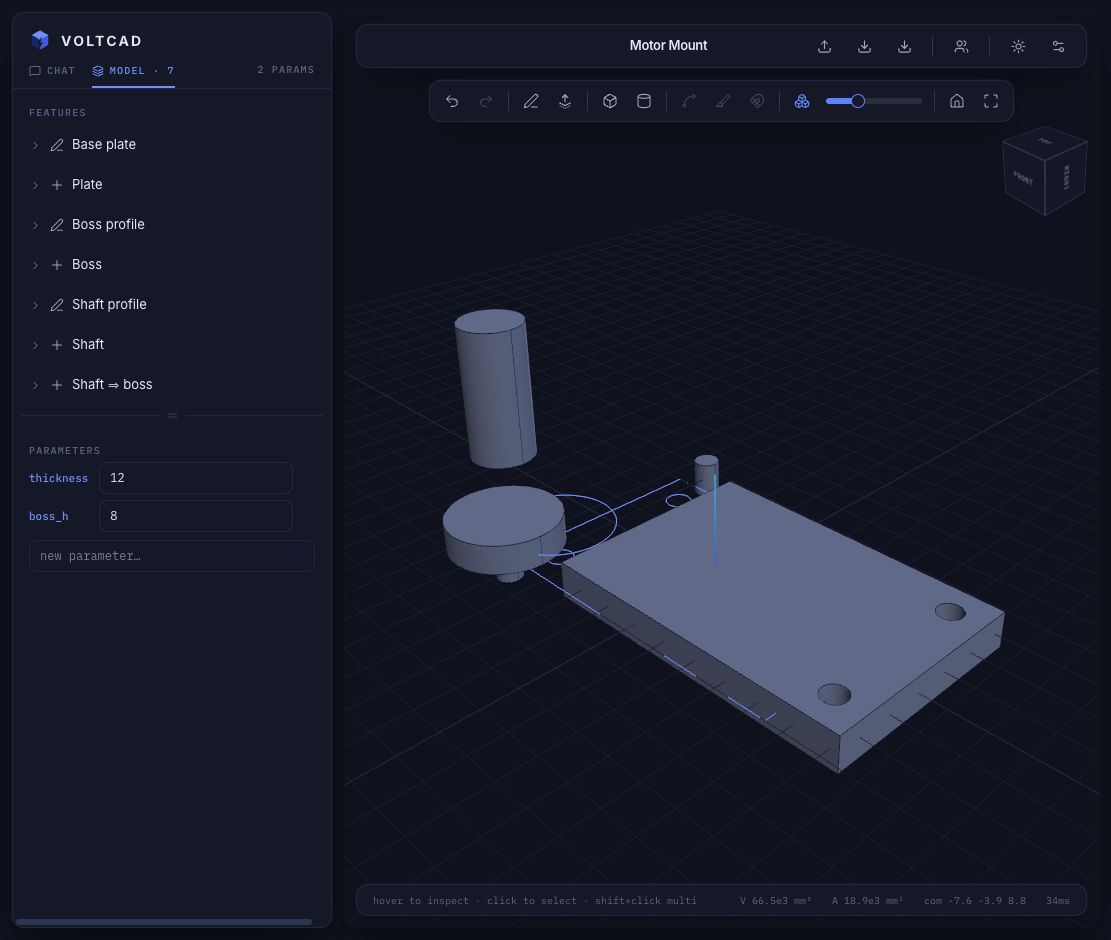
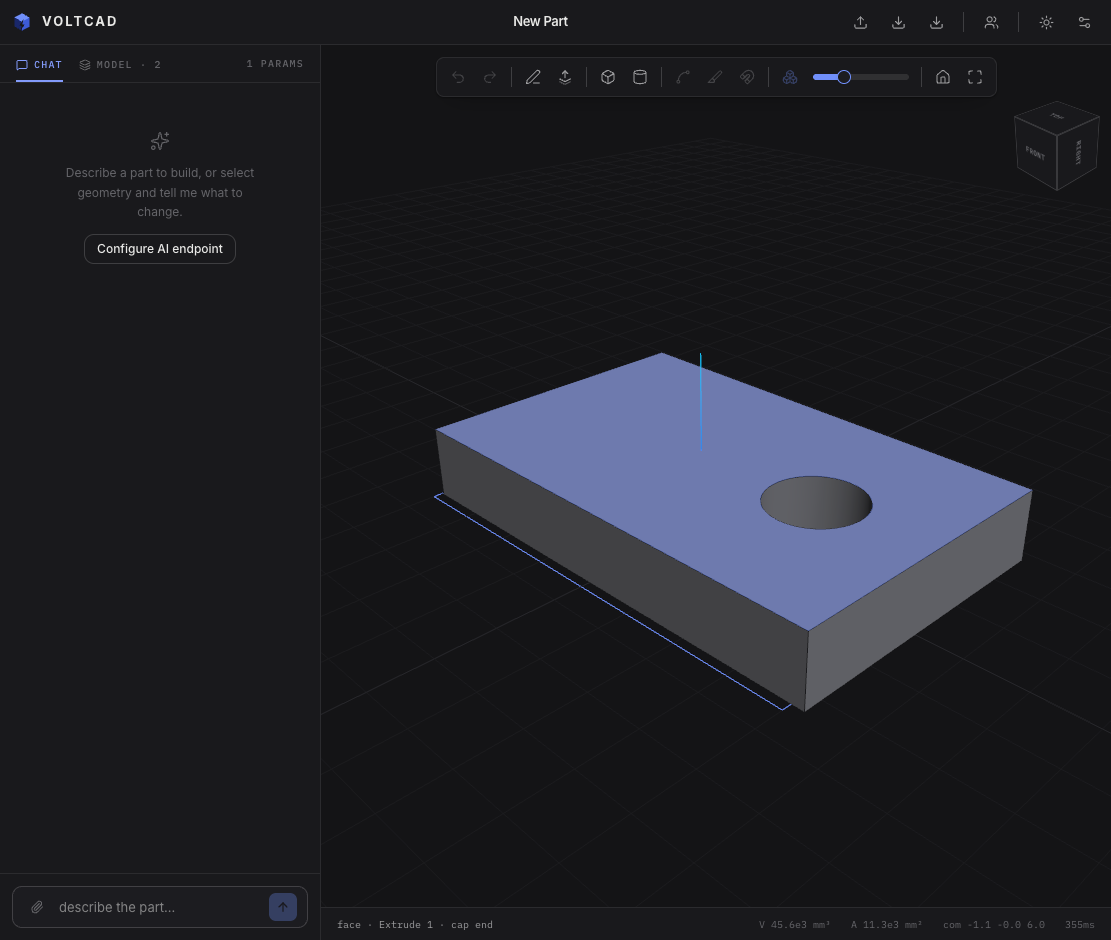
updated ui

diff --git a/apps/web/src/styles.css b/apps/web/src/styles.css
@@ -11,62 +11,63 @@
 @custom-variant data-disabled (&[data-disabled]);
 
 /* ---- design tokens ------------------------------------------------------ */
+/* "Precision workbench": flat opaque surfaces, hairline dividers, warm
+   neutrals — indigo is reserved exclusively for interactive/brand moments. */
 
 :root {
-  /* cool engineering-blue light theme */
-  --bg: #edeff4;
-  --surface: rgb(255 255 255 / 0.72);
+  /* warm paper light theme */
+  --bg: #f1f0ec;
+  --surface: #faf9f6;
   --surface-solid: #ffffff;
-  --surface-raised: rgb(255 255 255 / 0.9);
-  --border: rgb(24 32 63 / 0.08);
-  --border-strong: rgb(24 32 63 / 0.16);
-  --text: #171c2b;
-  --text-secondary: #454d63;
-  --text-muted: #8a91a5;
-  --accent: #1d2c9c;
+  --surface-raised: #f0efea;
+  --border: rgb(28 27 22 / 0.1);
+  --border-strong: rgb(28 27 22 / 0.19);
+  --text: #1d1c19;
+  --text-secondary: #4d4c47;
+  --text-muted: #8d8b80;
+  --accent: #2440d0;
   --accent-contrast: #ffffff;
   --label: #2b50e8;
   --status: #e8590c;
   --ok: #157a4e;
-  --ok-bg: #d9f2e2;
-  --err: #d64545;
+  --ok-bg: #dcf0e3;
+  --err: #cf4437;
   --select: #e8590c;
   --hover-hl: #2b50e8;
-  --hover-soft: rgb(43 80 232 / 0.08);
-  --accent-soft: #e9edfb;
+  --hover-soft: rgb(36 64 208 / 0.08);
+  --accent-soft: #e8ebfa;
   --shadow-panel:
-    0 0 0 0.5px rgb(24 32 63 / 0.04),
-    0 1px 2px rgb(24 32 63 / 0.05),
-    0 16px 40px -12px rgb(24 32 63 / 0.18);
+    0 1px 2px rgb(28 27 22 / 0.06),
+    0 6px 20px -12px rgb(28 27 22 / 0.16);
   --font-sans: "Inter Variable", ui-sans-serif, system-ui, sans-serif;
   --font-mono: "IBM Plex Mono", ui-monospace, "SF Mono", monospace;
 }
 
 .dark {
-  --bg: #0d1020;
-  --surface: rgb(23 28 48 / 0.72);
-  --surface-solid: #141830;
-  --surface-raised: rgb(30 36 60 / 0.9);
-  --border: rgb(160 175 255 / 0.1);
-  --border-strong: rgb(160 175 255 / 0.2);
-  --text: #e7eaf6;
-  --text-secondary: #a8b0cd;
-  --text-muted: #666f92;
-  --accent: #6b8afd;
-  --accent-contrast: #0c1024;
-  --label: #7d97ff;
+  /* warm graphite dark theme — neutral, not blue-tinted */
+  --bg: #131316;
+  --surface: #1a1a1e;
+  --surface-solid: #1e1e23;
+  --surface-raised: #242429;
+  --border: rgb(255 255 255 / 0.08);
+  --border-strong: rgb(255 255 255 / 0.16);
+  --text: #ebebe9;
+  --text-secondary: #a6a6a8;
+  --text-muted: #6f6f74;
+  --accent: #7c97ff;
+  --accent-contrast: #10101a;
+  --label: #8fa3ff;
   --status: #ff7a2f;
   --ok: #34c98e;
   --ok-bg: rgb(52 201 142 / 0.14);
   --err: #ff6b6b;
   --select: #ffa94d;
-  --hover-hl: #7d97ff;
-  --hover-soft: rgb(125 151 255 / 0.12);
-  --accent-soft: #242c50;
+  --hover-hl: #7c97ff;
+  --hover-soft: rgb(124 151 255 / 0.12);
+  --accent-soft: rgb(124 151 255 / 0.15);
   --shadow-panel:
-    0 0 0 0.5px rgb(160 175 255 / 0.08),
-    0 1px 2px rgb(0 0 0 / 0.5),
-    0 16px 40px -12px rgb(0 0 0 / 0.65);
+    0 1px 2px rgb(0 0 0 / 0.4),
+    0 8px 24px -14px rgb(0 0 0 / 0.55);
 }
 
 /* ---- shadcn/radix component tokens → mapped onto VoltCAD design vars ----- */
@@ -89,9 +90,9 @@
   --color-border: var(--border);
   --color-input: var(--border-strong);
   --color-ring: var(--accent);
-  --radius-lg: 12px;
-  --radius-md: 10px;
-  --radius-sm: 8px;
+  --radius-lg: 10px;
+  --radius-md: 8px;
+  --radius-sm: 6px;
 }
 
 /* ---- base --------------------------------------------------------------- */
@@ -129,13 +130,19 @@ body {
 
 /* ---- surfaces ------------------------------------------------------------ */
 
+/* Floating chrome (toolbar, popovers, dialogs): flat, opaque, hairline. */
 .glass-panel {
-  border-radius: 12px;
+  border-radius: 8px;
   border: 1px solid var(--border);
   background: var(--surface);
-  backdrop-filter: blur(20px) saturate(1.4);
-  -webkit-backdrop-filter: blur(20px) saturate(1.4);
   box-shadow: var(--shadow-panel);
+  color: var(--text);
+}
+
+/* Docked chrome (header, sidebar, status strip): no radius, no shadow —
+   structure comes from hairline dividers, added per-side via utilities. */
+.dock-panel {
+  background: var(--surface);
   color: var(--text);
 }
 
@@ -175,9 +182,9 @@ body {
   display: inline-flex;
   align-items: center;
   justify-content: center;
-  width: 32px;
-  height: 32px;
-  border-radius: 8px;
+  width: 30px;
+  height: 30px;
+  border-radius: 6px;
   color: var(--text-secondary);
   transition: background 120ms, color 120ms;
 }
@@ -213,9 +220,9 @@ body {
   left: 50%;
   transform: translateX(-50%) translateY(-2px);
   padding: 4px 8px;
-  border-radius: 6px;
-  background: var(--accent);
-  color: var(--accent-contrast);
+  border-radius: 5px;
+  background: var(--text);
+  color: var(--bg);
   font-family: var(--font-mono);
   font-size: 10px;
   font-weight: 500;
@@ -238,6 +245,10 @@ body {
 [data-tip][data-tip-side="bottom-left"]:hover::after {
   transform: translateY(0);
 }
+[data-tip][data-tip-side="top"]::after {
+  top: auto;
+  bottom: calc(100% + 8px);
+}
 
 /* ---- fields --------------------------------------------------------------- */
 
@@ -254,7 +265,7 @@ body {
 
 .field-input {
   width: 100%;
-  border-radius: 8px;
+  border-radius: 6px;
   border: 1px solid var(--border);
   background: var(--surface-solid);
   padding: 6px 10px;

diff --git a/apps/web/src/routes/index.tsx b/apps/web/src/routes/index.tsx
@@ -59,36 +59,49 @@ function Editor() {
   }, [])
 
   return (
-    <div className="flex h-dvh w-dvw gap-3 overflow-hidden p-3" style={{ background: 'var(--bg)' }}>
-      <Sidebar onOpenSettings={() => setSettingsOpen(true)} />
+    <div className="flex h-dvh w-dvw flex-col overflow-hidden" style={{ background: 'var(--bg)' }}>
+      {/* docked header rail */}
+      <div className="dock-panel z-20 border-b" style={{ borderColor: 'var(--border)' }}>
+        <TopBar onOpenSettings={() => setSettingsOpen(true)} />
+      </div>
 
-      <main className="relative min-w-0 flex-1 overflow-hidden rounded-xl" style={{ boxShadow: 'var(--shadow-panel)' }}>
-        <Viewport />
-        <ViewportOverlays />
-
-        {/* floating chrome over the viewport */}
-        <div className="pointer-events-none absolute inset-0 flex flex-col p-3">
-          <div className="pointer-events-auto">
-            <TopBar onOpenSettings={() => setSettingsOpen(true)} />
-          </div>
-          <div className="mt-3 flex justify-center">
-            <div className="pointer-events-auto flex flex-col items-center">
-              <Toolbar />
-              <DimensionInput />
-              <ConstraintBar />
-            </div>
-          </div>
-          <div className="mt-1 flex justify-end">
-            <ViewCube />
-          </div>
-          <div className="flex-1" />
-          <div className="pointer-events-auto">
-            <StatusBar />
-          </div>
+      <div className="flex min-h-0 flex-1">
+        {/* docked sidebar */}
+        <div className="dock-panel z-10 border-r" style={{ borderColor: 'var(--border)' }}>
+          <Sidebar onOpenSettings={() => setSettingsOpen(true)} />
         </div>
 
-        <SettingsDialog open={settingsOpen} onClose={() => setSettingsOpen(false)} />
-      </main>
+        {/* full-bleed viewport */}
+        <main className="relative min-w-0 flex-1 overflow-hidden">
+          <Viewport />
+          <ViewportOverlays />
+
+          {/* floating instruments over the viewport */}
+          <div className="pointer-events-none absolute inset-0 flex flex-col p-3">
+            <div className="flex justify-center">
+              <div className="pointer-events-auto flex flex-col items-center">
+                <Toolbar />
+                <DimensionInput />
+                <ConstraintBar />
+              </div>
+            </div>
+            <div className="mt-1 flex justify-end">
+              <ViewCube />
+            </div>
+            <div className="flex-1" />
+          </div>
+
+          {/* docked status strip */}
+          <div
+            className="dock-panel absolute inset-x-0 bottom-0 border-t"
+            style={{ borderColor: 'var(--border)' }}
+          >
+            <StatusBar />
+          </div>
+
+          <SettingsDialog open={settingsOpen} onClose={() => setSettingsOpen(false)} />
+        </main>
+      </div>
     </div>
   )
 }

diff --git a/apps/web/src/components/StatusBar.tsx b/apps/web/src/components/StatusBar.tsx
@@ -14,7 +14,7 @@ export function StatusBar() {
     selection.length > 0 && selection.every((x) => x.kind === "face");
 
   return (
-    <div className="glass-panel flex h-8 items-center gap-5 px-4 font-mono text-[10px]" style={{ color: "var(--text-muted)" }}>
+    <div className="flex h-8 items-center gap-5 px-4 font-mono text-[10px]" style={{ color: "var(--text-muted)" }}>
       <span className="min-w-0 flex-1 truncate">
         {kernelError ? (
           <span style={{ color: "var(--err)" }}>{kernelError}</span>
@@ -32,14 +32,14 @@ export function StatusBar() {
       </span>
       {massProps && (
         <>
-          <span data-tip="Volume">V {fmt(massProps.volume)}mm³</span>
-          <span data-tip="Surface area">A {fmt(massProps.surfaceArea)}mm²</span>
-          <span data-tip="Center of mass">
+          <span data-tip="Volume" data-tip-side="top">V {fmt(massProps.volume)}mm³</span>
+          <span data-tip="Surface area" data-tip-side="top">A {fmt(massProps.surfaceArea)}mm²</span>
+          <span data-tip="Center of mass" data-tip-side="top">
             com {massProps.centerOfMass.map((v) => v.toFixed(1)).join(" ")}
           </span>
         </>
       )}
-      <span data-tip="Regeneration time">{regenMs.toFixed(0)}ms</span>
+      <span data-tip="Regeneration time" data-tip-side="top">{regenMs.toFixed(0)}ms</span>
     </div>
   );
 }

diff --git a/apps/web/src/components/Sidebar.tsx b/apps/web/src/components/Sidebar.tsx
@@ -1,10 +1,9 @@
 import { MessageSquare, Layers } from "lucide-react";
 import { ChatPanel } from "./ChatPanel.tsx";
 import { ModelPanel } from "./ModelPanel.tsx";
-import { Logo } from "./Logo.tsx";
 import { useEditorStore } from "../state/document-store.ts";
 
-/** Left sidebar: floating glass panel with brand header + CHAT / MODEL tabs. */
+/** Left sidebar: docked panel with CHAT / MODEL tabs (brand lives in the header rail). */
 export function Sidebar(props: { onOpenSettings: () => void }) {
   const tab = useEditorStore((s) => s.sidebarTab);
   const setTab = useEditorStore((s) => s.setSidebarTab);
@@ -15,13 +14,8 @@ export function Sidebar(props: { onOpenSettings: () => void }) {
   );
 
   return (
-    <aside className="glass-panel z-10 flex w-80 shrink-0 flex-col overflow-hidden">
-      <div className="flex items-center gap-2.5 px-4 pt-4 pb-2">
-        <Logo size={22} />
-        <span className="text-[14px] font-bold tracking-[0.16em]">VOLTCAD</span>
-      </div>
-
-      <div className="flex items-center gap-4 border-b px-4" style={{ borderColor: "var(--border)" }}>
+    <aside className="flex h-full w-80 shrink-0 flex-col overflow-hidden">
+      <div className="flex items-center gap-4 border-b px-4 pt-2" style={{ borderColor: "var(--border)" }}>
         <TabButton
           icon={<MessageSquare size={12} />}
           label="Chat"

diff --git a/apps/web/src/components/TopBar.tsx b/apps/web/src/components/TopBar.tsx
@@ -4,6 +4,7 @@ import { newFeatureId } from "@voltcad/model-api";
 import { useEditorStore } from "../state/document-store.ts";
 import { useThemeStore } from "../state/theme-store.ts";
 import { useCollabStore } from "../state/collab-store.ts";
+import { Logo } from "./Logo.tsx";
 import { putBlob } from "../lib/opfs.ts";
 import { pushRelayBlob } from "../lib/blob-sync.ts";
 
@@ -48,10 +49,11 @@ export function TopBar(props: { onOpenSettings: () => void }) {
   };
 
   return (
-    <div className="glass-panel flex h-11 items-center gap-2 px-3">
-      {/* spacer balancing the right-side buttons so the name stays centered;
-          hosts the quiet regen spinner */}
-      <div className="flex w-40 items-center">
+    <div className="flex h-11 items-center gap-2 px-3">
+      {/* brand + quiet regen spinner */}
+      <div className="flex w-56 items-center gap-2.5">
+        <Logo size={20} />
+        <span className="text-[13px] font-bold tracking-[0.16em]">VOLTCAD</span>
         {showBusy && (
           <Loader2
             size={13}

diff --git a/apps/web/src/components/viewport/scene-manager.ts b/apps/web/src/components/viewport/scene-manager.ts
@@ -21,28 +21,28 @@ CameraControls.install({ THREE });
 
 const THEMES = {
   light: {
-    background: 0xedeff4,
-    body: 0xdfe2ea,
-    edge: 0x363c52,
+    background: 0xf1f0ec,
+    body: 0xe0dfda,
+    edge: 0x3a3934,
     sketch: 0x2b50e8,
     hover: 0x2b50e8,
     selected: 0xe8590c,
-    grid: 0xd7dae3,
-    gridCenter: 0xc5c9d6,
+    grid: 0xe2e1db,
+    gridCenter: 0xd2d1ca,
     hemiSky: 0xffffff,
-    hemiGround: 0x848aa0,
+    hemiGround: 0x8a8983,
   },
   dark: {
-    background: 0x0d1020,
-    body: 0x9aa6cc,
-    edge: 0x181d33,
-    sketch: 0x7d97ff,
-    hover: 0x7d97ff,
+    background: 0x131316,
+    body: 0xaaabb2,
+    edge: 0x1c1c20,
+    sketch: 0x7c97ff,
+    hover: 0x7c97ff,
     selected: 0xffa94d,
-    grid: 0x191e36,
-    gridCenter: 0x272e4e,
-    hemiSky: 0xdfe4f5,
-    hemiGround: 0x171b30,
+    grid: 0x1d1d21,
+    gridCenter: 0x2b2b30,
+    hemiSky: 0xe9e9eb,
+    hemiGround: 0x1a1a1d,
   },
 } as const;
 
